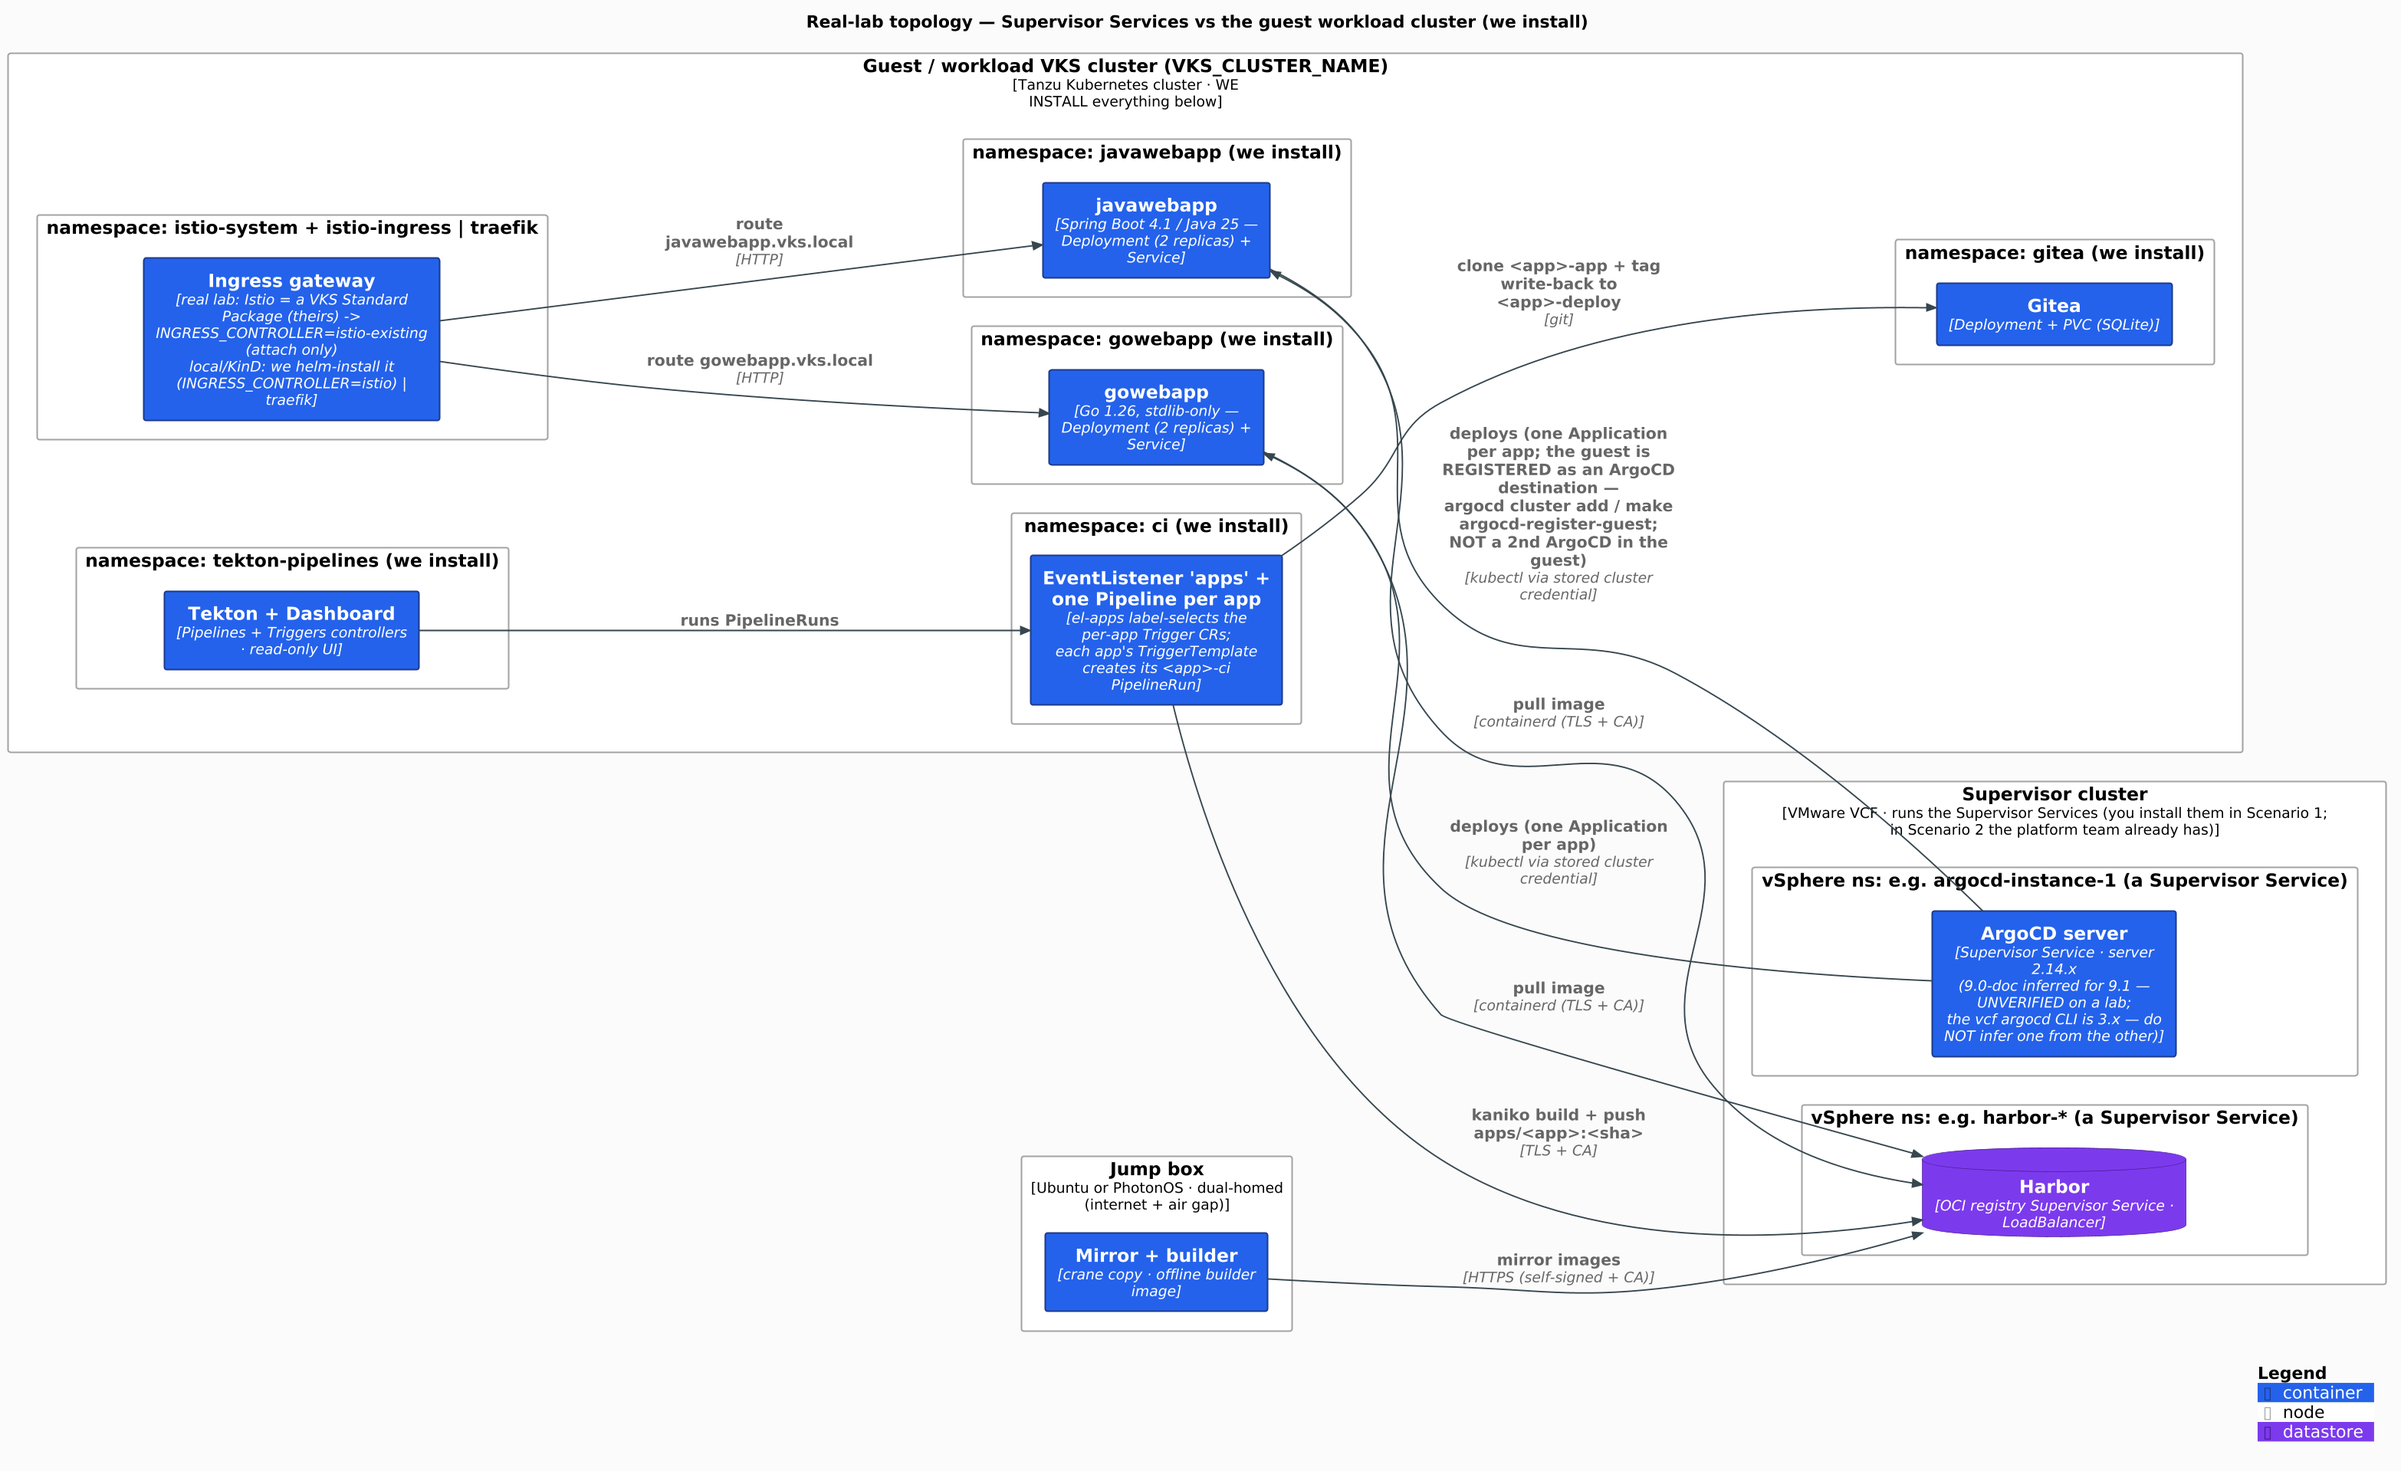
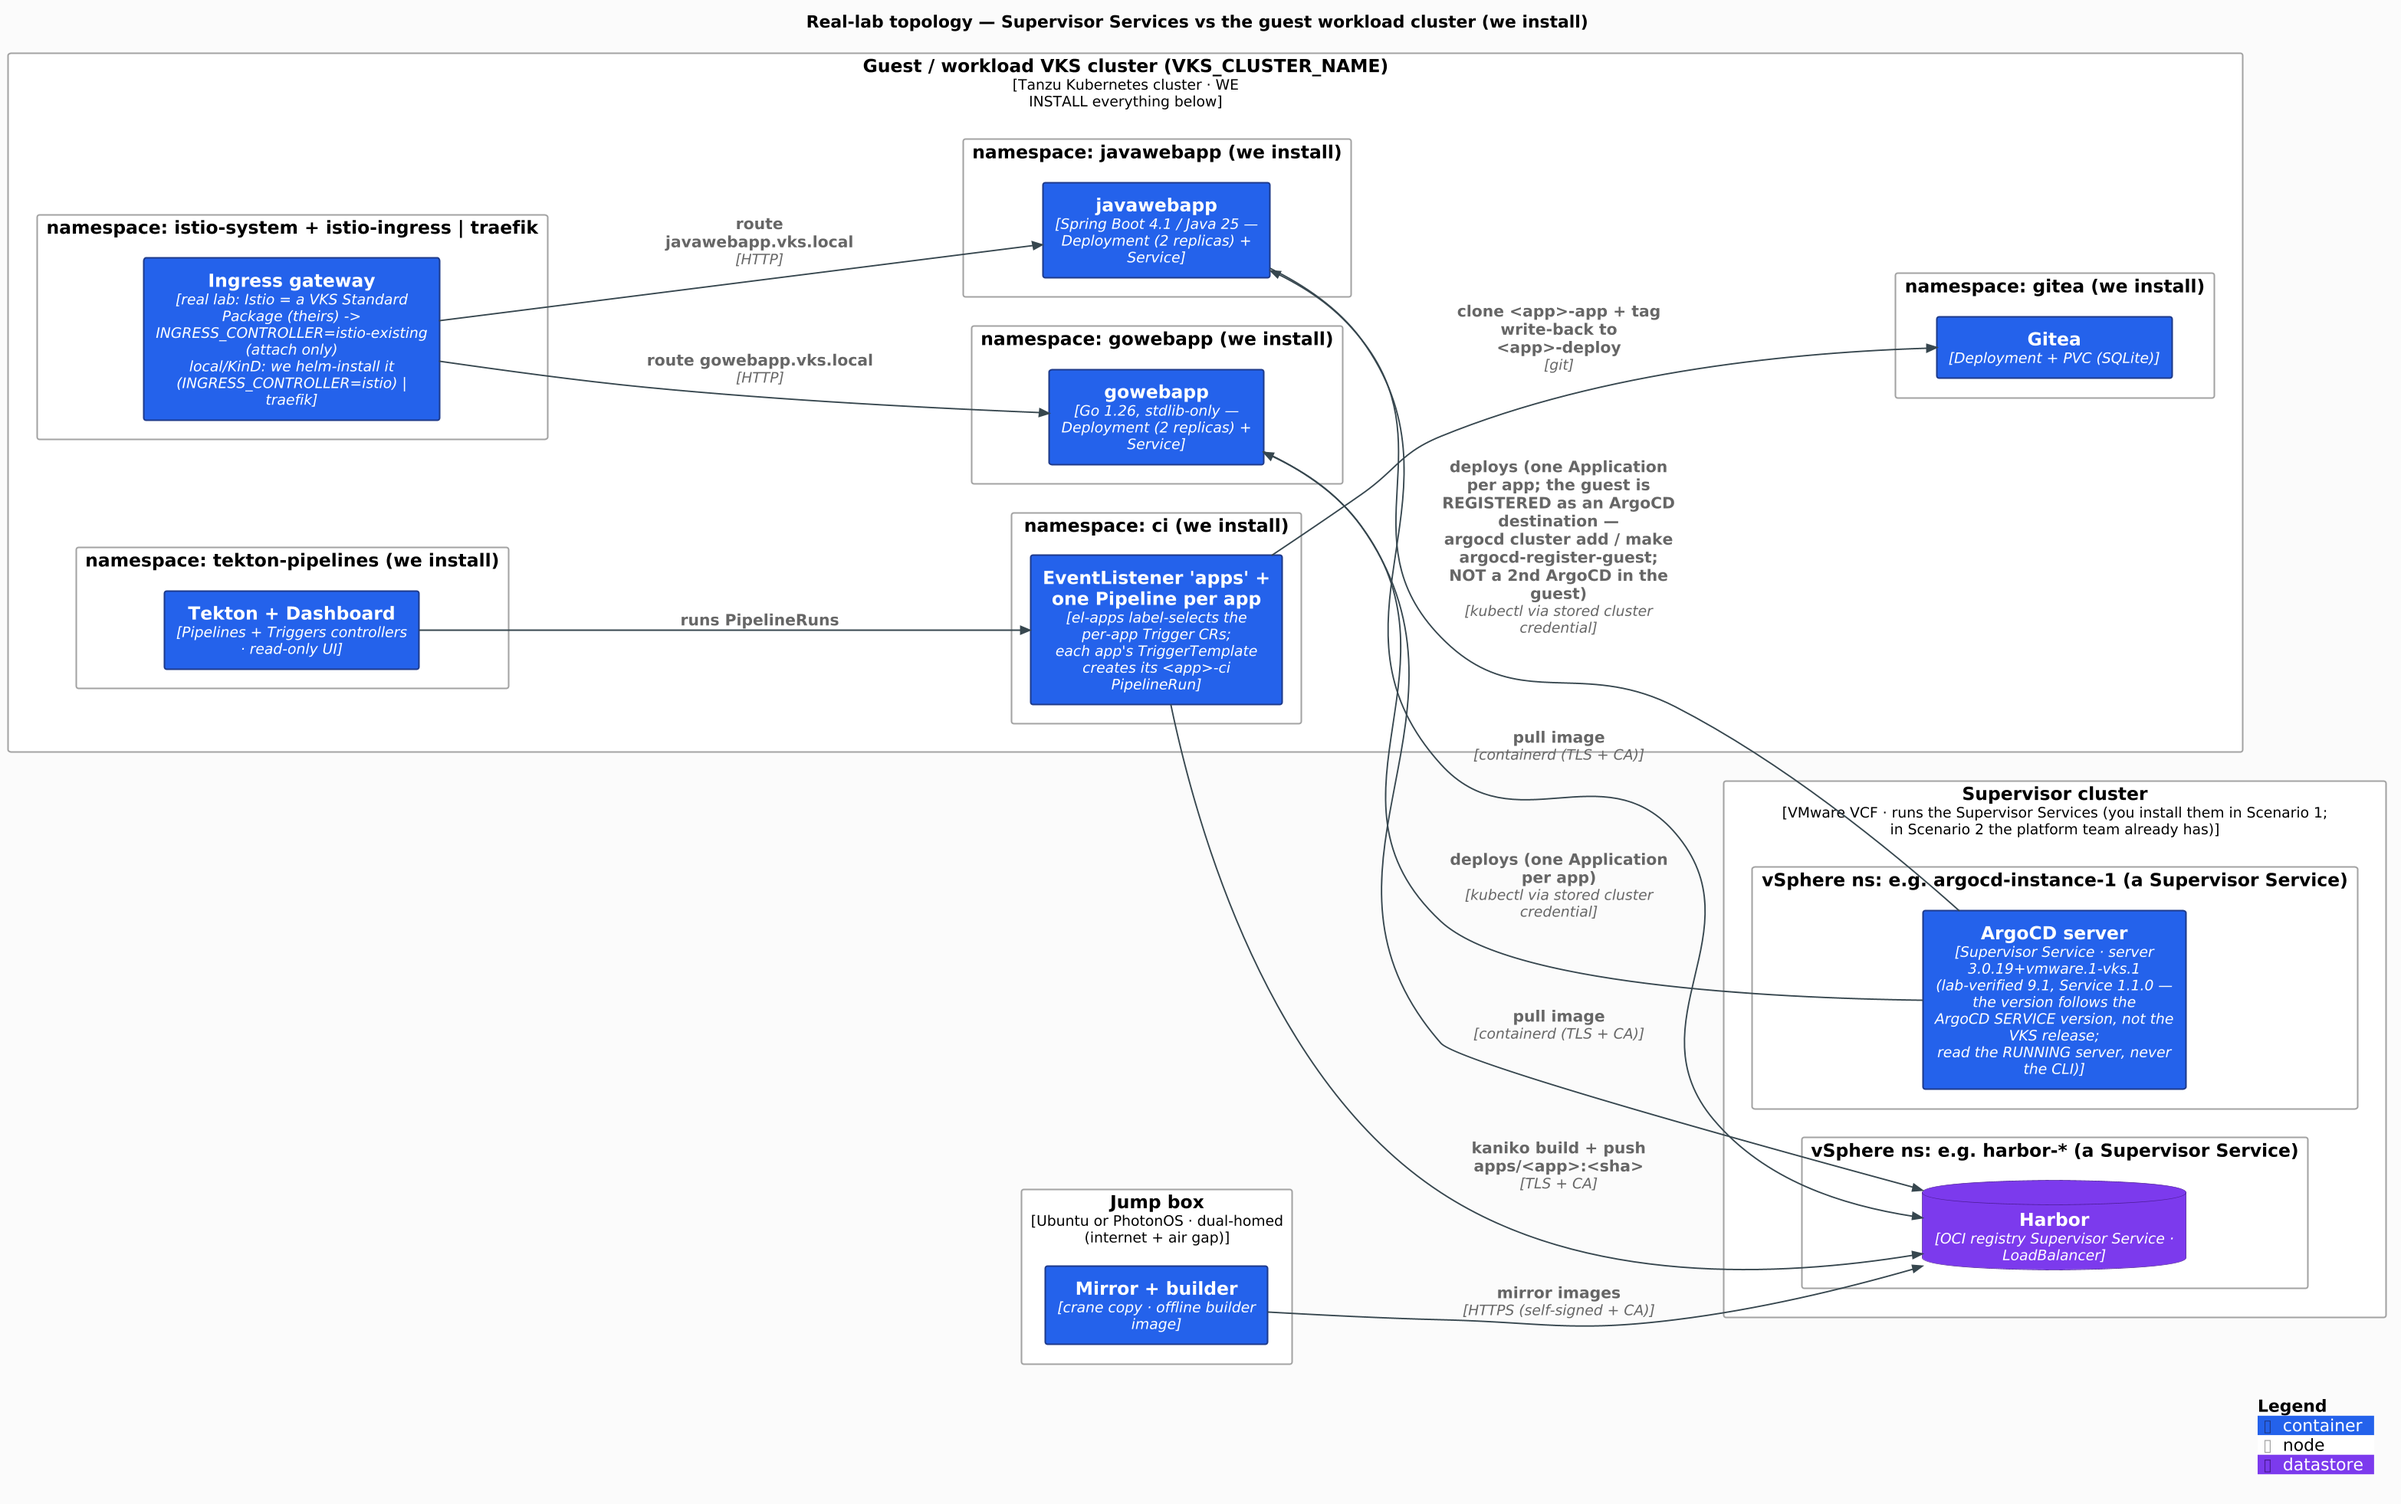
fix: the ArgoCD "2.x server" claim was stale in 11 places — and its worst instance carries no version number at all (#700)
B125. An adversary round refuted my own filing of this row in three ways, and each correction changed
what the fix had to be.

1. IT WAS 11 SITES ACROSS 7 FILES, NOT 10. I MISSED FOUR — including scripts/lib/argocd.sh:229,
   the THIRD copy of the same sentence in the same function, 17 lines below one I had listed. That
   copy sits on the second UNAVAILABLE path: the one that fires when the reader has a kubeconfig but
   no reachable ArgoCD namespace, i.e. exactly the tenant case. A fix landing :205 and :212 and not
   :229 would have looked complete and left the false claim on the path most likely to be hit.

2. MY PROPOSED SCOPING AXIS WOULD HAVE SHIPPED A NEW ERROR. I planned to scope by VKS release ("true
   for 9.0, false for 9.1"). MEASURED: docs/vks-services/argocd.md:21's citation is a /9-1/ URL
   quoting "Argo CD Service 1.0.0 supports creating and configuring an Argo CD v2.14.13 instance."
   So 2.14.13 IS a 9.1 fact. The discriminator is the ArgoCD SERVICE version — Service 1.0.0 ->
   2.14.13, Service 1.1.0-25100889 -> 3.0.19 — and both are 9.1. Scoping to 9.0 would have written a
   false statement AND orphaned a live /9-1/ citation. Everything here is scoped by Service version.

3. THE HIGHEST-VALUE FINDING IS NOT A NUMBER, so no grep would ever have found it.
   kind-tls-fidelity.md's 2026-07-11 correction concludes: "a real server-generation delta DOES
   exist — it is a known fidelity gap, not a match." That CONCLUSION is now FALSE. Lab = 3.0.19,
[…]

diff --git a/docs/decisions/kind-tls-fidelity.md b/docs/decisions/kind-tls-fidelity.md
@@ -63,7 +63,7 @@ builder push, `verify`, `creds`) keys off the same flags so the two modes never 
 ### ArgoCD
 
 - **Supervisor Service** (Broadcom Argo CD Operator, GA 2025); provisions **stock upstream
-  ArgoCD** — VKS 9.1 = **v2.14.13** (selectable via the `ArgoCD` CR `spec.version`).
+  ArgoCD** — the version follows the ArgoCD **Service** version, not the VKS release: Service 1.0.0 = **v2.14.13** (9.1 RN), Service 1.1.0-25100889 = **v3.0.19+vmware.1-vks.1** (measured 2026-08-17). Selectable via the `ArgoCD` CR `spec.version`.
 - **Self-signed TLS on 443 by default.** Upstream `argocd-server` auto-generates a
   self-signed cert (persisted in `argocd-secret`); `server.insecure` (plain HTTP) is **not**
   the default. Overridable via an `argocd-server-tls` secret.
@@ -224,6 +224,22 @@ holds (installed via `make install-vcf-clis`).
 > known fidelity gap, not a match. `make argocd-preflight` reports all three (CLI, running server
 > image, `kubectl explain argocd.spec.version`) so this cannot be guessed at again.
 
+<!-- MD028: two ADJACENT blockquotes, deliberately separate. The 2026-07-11 block is append-only
+     history and must not be merged into the 2026-08-17 one that corrects it. -->
+
+> **CORRECTION (2026-08-17) — the correction ABOVE is now itself out of date, in its CONCLUSION.**
+> The 2026-07-11 block is factually right about the MECHANISM (a CLI version is not a server version)
+> and its numbers were right for the ArgoCD **Service** version that shipped then. Its *conclusion* —
+> "a real server-generation delta DOES exist — it is a known fidelity gap, not a match" — is **now
+> FALSE**, and it carries no version number, so no grep for `2.14` would ever have found it.
+> **MEASURED 2026-08-17** on a 9.1 Supervisor: the ArgoCD Service `1.1.0-25100889` publishes exactly
+> ONE package, **`3.0.19+vmware.1-vks.1`**, and this repo pins `ARGOCD_VERSION=v3.5.1`. Both are
+> **3.x**, so the generation gap is **CLOSED**; what remains is a MINOR delta (3.0.19 vs 3.5.1),
+> which is a much weaker claim than a generation mismatch.
+> The discriminating axis is the **ArgoCD Service version, NOT the VKS release** — Service 1.0.0 ->
+> 2.14.13 (9.1 RN), Service 1.1.0 -> 3.0.19. Both are 9.1 facts, so "scope it to 9.0" would write a
+> false statement and orphan a live `/9-1/` citation.
+
 **Ground-truth versions (verified):** lab `argocd` CLI = **`v3.0.19+d67e6eb90-vcf`** (built
 2025-12-02); `vcf` (VCF Consumption CLI) = **`v9.1.0.0.25296329`** (GA, 2026-03-20). VKS 9.1
 Harbor ≈ **2.14.3** (`_vmware` build); ArgoCD provisioned by the Broadcom Argo CD Operator
@@ -236,8 +252,10 @@ Harbor ≈ **2.14.3** (`_vmware` build); ArgoCD provisioned by the Broadcom Argo
   real HTTPS/443. A missing-CA hop fails KinD exactly as it would fail the lab.
 - **ArgoCD exposure/auth**: own LoadBalancer reached by IP, self-signed TLS on 443,
   `argocd login <ip> --insecure` (IP-SAN warning), admin from `argocd-initial-admin-secret` —
-  all match VKS 9.1. **NOT the server generation**: KinD runs ArgoCD **3.x** while the lab's
-  operator CR pins a **2.14.x** server (the 9.1 RN cites v2.14.13) — see the CORRECTION above.
+  all match VKS 9.1. **Server generation now MATCHES** on a Service-1.1.0 lab: measured 3.0.19 there
+  vs our v3.5.1 pin — a MINOR delta, not the generation gap this bullet used to claim. On an older
+  Service-1.0.0 lab (server 2.14.13) the gap is real again, so read the RUNNING server rather than
+  assuming either way. See both CORRECTION blocks above.
 - **The GitOps loop shape**: push → Tekton → Harbor → tag write-back → ArgoCD sync → app roll.
 
 **What a green KinD run does NOT prove (residual lab risk — verify on the real lab):**

diff --git a/docs/vks-services/argocd.md b/docs/vks-services/argocd.md
@@ -18,7 +18,7 @@
 | Packaging | **Supervisor Service** (operator + an ArgoCD instance CR), on the **Supervisor** | 9.0-doc (9.1-RN confirms the Service exists) [src: url=https://techdocs.broadcom.com/us/en/vmware-cis/vcf/vcf-service-administration-and-development/9-0/using-supervisor-services/using-argo-cd-service/install-argo-cd-service.html date=2026-07-15 quote="You deploy the VMware Argo CD Operator on the Supervisor and then install an Argo CD instance in a vSphere Namespace"] |
 | Namespace | a vSphere Namespace, e.g. `argocd-instance-1` | 9.0-doc [src: url=https://techdocs.broadcom.com/us/en/vmware-cis/vcf/vcf-service-administration-and-development/9-0/using-supervisor-services/using-argo-cd-service/install-argo-cd-service.html date=2026-07-15 quote="namespace: argocd-instance-1"] |
 | Service | `argocd-server` (LoadBalancer, self-signed TLS) | 9.0-doc [src: url=https://techdocs.broadcom.com/us/en/vmware-cis/vcf/vcf-service-administration-and-development/9-0/using-supervisor-services/using-argo-cd-service/install-argo-cd-service.html date=2026-07-15 quote="argocd-server        LoadBalancer   <IP address>"] |
-| **Server version** | a `2.14.x+vmware.1-vks.N` line — the 9.1 Supervisor RN cites Argo CD **v2.14.13** (Argo CD Service 1.0.0). `2.14.15` was only the 9.0 doc's *example*, never lab-observed; read the real pin from the CR (`argocd.spec.version`) | 9.1-RN (v2.14.13); exact pin lab-only [src: url=https://techdocs.broadcom.com/us/en/vmware-cis/vcf/vcf-service-administration-and-development/9-1/release-notes/vmware-vsphere-supervisor-release-notes.html date=2026-07-15 quote="Argo CD Service 1.0.0 supports creating and configuring an Argo CD v2.14.13 instance."] |
+| **Server version** | determined by the ArgoCD **Service** version, NOT by the VKS release: Service 1.1.0-25100889 publishes exactly ONE package, `3.0.19+vmware.1-vks.1` (measured); Service 1.0.0 published a `2.14.x+vmware.1-vks.N` line — the 9.1 Supervisor RN cites Argo CD **v2.14.13** (Argo CD Service 1.0.0). `2.14.15` was only the 9.0 doc's *example*, never lab-observed; read the real pin from the CR (`argocd.spec.version`) | 9.1-RN (v2.14.13); exact pin lab-only [src: url=https://techdocs.broadcom.com/us/en/vmware-cis/vcf/vcf-service-administration-and-development/9-1/release-notes/vmware-vsphere-supervisor-release-notes.html date=2026-07-15 quote="Argo CD Service 1.0.0 supports creating and configuring an Argo CD v2.14.13 instance."] |
 | **CLI version** | the lab's `argocd` binary reported **`v3.0.19+d67e6eb90-vcf`** (a **3.x** line) | lab-verified [src: code:docs/decisions/kind-tls-fidelity.md:227] |
 | **`spec.version` is operator-SELECTABLE, not a constant** | it is the **Carvel package** version, constrained to `X.Y.Z+vmware.W-vks.V`. Broadcom's own API reference uses a **3.x** value as its example, so the field is not bound to the 2.14.x line — **any single value recorded anywhere is an example at a point in time.** Read the pin from the CR on the lab | primary-sourced (Broadcom API reference) [src: url=https://developer.broadcom.com/xapis/argocd-service-api/latest/api-docs.html date=2026-07-22 quote="Version specifies the ArgoCD Carvel Package version to deploy. The version must follow the pattern: X.Y.Z+vmware.W-vks.V"] |
 

diff --git a/docs/lab-validation-plan.md b/docs/lab-validation-plan.md
@@ -188,10 +188,10 @@ curl -sS --cacert secrets/harbor-ca.crt -u "$HARBOR_USERNAME" https://$HARBOR_UR
 
 ### 6. Install ArgoCD, and tell us what it's really called · YOUR OWN WORK + CHEAP PROBES
 
-**Why:** our scripts **hardcode `argocd-server`**. An operator-managed instance may name it `<CR>-server` — in which case that is a real bug. We also pin a 2.x server example while shipping a 3.x CLI.
+**Why:** our scripts **hardcode `argocd-server`**. An operator-managed instance may name it `<CR>-server` — in which case that is a real bug. (ANSWERED 2026-08-17: the server generation follows the ArgoCD Service version — Service 1.1.0 publishes 3.0.19, so on that lab the CLI and server are BOTH 3.x and no generation gap exists.)
 **Where:** **vSphere Client** for the Service + Namespace; jump box → **Supervisor** for every probe.
 **Who needs it:** BOTH.
-**We then:** if the deployments are `<CR>-server` rather than `argocd-server`, we make our scripts **discover by label** — today they hardcode the name, and it would present to you as *"the Supervisor kubeconfig doesn't work"*. If the running server is 2.x, we pin our KinD stand-in to the lab's line.
+**We then:** if the deployments are `<CR>-server` rather than `argocd-server`, we make our scripts **discover by label** — today they hardcode the name, and it would present to you as *"the Supervisor kubeconfig doesn't work"*. (The pin question is ANSWERED for Service 1.1.0: server 3.0.19 vs our KinD pin v3.5.1 — same generation, a MINOR delta, so no re-pin is needed. Re-ask only if a lab runs an older Service.)
 
 Follow **[Scenario 1 §A2](scenario-1.md)** steps 1–2, then:
 

diff --git a/docs/vks-authentication.md b/docs/vks-authentication.md
@@ -129,9 +129,10 @@ and does not carry our pinned 9.1 (measured 2026-07-23), so there is no no-auth 
 **arm64 jump box — the VCF-flavored argocd is amd64-only.** Broadcom ships `argocd-vcf` for
 `linux-amd64` (and `darwin-amd64`), not `linux-arm64`, so on an arm64 box `make install-vcf-clis`
 dies at `install-argocd-vcf` with "no argocd artifact for linux/arm64". Use the **upstream argocd
-that `make deps` already installs** (arm64-native; Broadcom itself pairs a **3.x** argocd CLI with
-the 2.14.x server, so a 3.x CLI is the intended generation — this specific upstream build against
-the lab server is not lab-verified), and install the rest with `make install-vcf-cli` +
+that `make deps` already installs** (arm64-native; Broadcom ships a **3.x** argocd CLI, and
+MEASURED 2026-08-17 the ArgoCD Service 1.1.0 publishes a **3.0.19** SERVER — so on that lab the CLI
+and server are the same generation. A CLI is deliberately tolerant across a server range either way;
+this specific upstream build against the lab server is not lab-verified), and install the rest with `make install-vcf-cli` +
 `make install-vcf-plugins` instead of `all`. The `vcf` CLI and plugin bundle are available for both
 linux amd64 and arm64.
 

diff --git a/README.md b/README.md
@@ -149,7 +149,7 @@ additional one (see [Istio on VKS](docs/vks-services/istio.md#4-attach-prefer-th
 > ([docs](https://argo-cd.readthedocs.io/en/stable/user-guide/projects/)); the Harbor robot we mint
 > is project-scoped (`scripts/22-harbor-robot.sh`); an Istio `Gateway`'s `hosts:` list gates which
 > hostnames a VirtualService may bind. But the exact `kubectl patch` invocations have **not** been
-> run against a VKS cluster, and the ArgoCD **server** there is 2.14.x (ours is 3.x). Treat them as
+> run against a VKS cluster, and the ArgoCD **server** there is whatever the ArgoCD *Service* version publishes (Service 1.1.0 -> 3.0.19, measured on a 9.1 lab 2026-08-17; Service 1.0.0 -> 2.14.13 per the 9.1 RN) — read the RUNNING server, never the CLI. Treat them as
 > a starting point, confirm against your lab, and correct this table. See the backlog in CLAUDE.md.
 
 </details>
